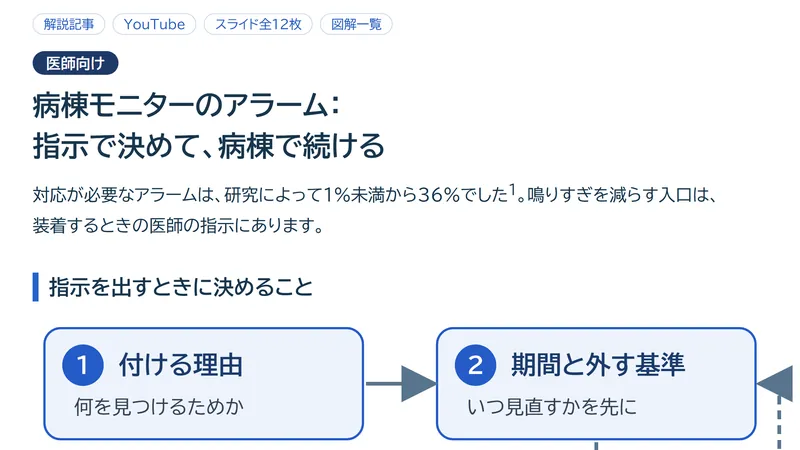
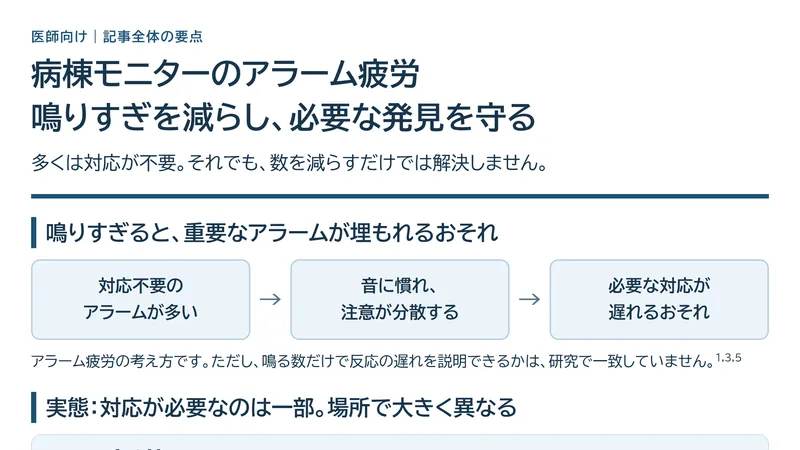
アラーム疲労の図解を記事全体の概要へ更新

Changed region(s): [[0.0312, 0.0311, 1.0, 1.0], [0.4062, 0.0311, 0.5, 0.0933], [0.625, 0.6533, 0.6875, 0.6844]]

diff --git a/infographics/ward-alarm-fatigue/index.html b/infographics/ward-alarm-fatigue/index.html
@@ -1,64 +1,12 @@
-<!DOCTYPE html>
-<html lang="ja"><head><meta charset="utf-8"><meta name="viewport" content="width=device-width,initial-scale=1"><title>病棟モニターのアラーム：指示で決めて、病棟で続ける｜医知創造ラボ</title>
-<meta name="description" content="病棟モニターのアラームを減らすために、医師が装着の指示で決めることと、対策をやめるとアラームが戻ることを1枚の図にまとめました。">
-<style>body{margin:0;background:#edf2f6;color:#18354c;font-family:"BIZ UDPGothic","Yu Gothic",sans-serif}.fig{max-width:1080px;width:100%;margin:auto;background:white}nav{display:flex;flex-wrap:wrap;gap:10px;padding:18px 44px 0}nav a{font-size:17px;color:#245bc7;text-decoration:none;border:1px solid #c7d6ec;border-radius:999px;padding:5px 14px}header{padding:22px 44px 12px}.tag{display:inline-block;background:#1f3a68;color:#fff;font-size:20px;font-weight:700;padding:6px 18px;border-radius:999px;margin-bottom:14px}h1{font-size:38px;line-height:1.45;margin:0 0 14px}.intro{font-size:23px;line-height:1.8;margin:0}h2{font-size:28px;margin:30px 44px 6px;padding-left:14px;border-left:8px solid #2563c9;line-height:1.4}svg{width:100%;display:block;height:auto}.caption{font-size:21px;line-height:1.8;margin:6px 44px 0}.note{margin:26px 44px 0;padding:18px 22px;background:#faf4e9;border:2px solid #b08a49;border-radius:16px;font-size:22px;line-height:1.8;font-weight:700}footer{padding:16px 44px 32px;margin-top:26px;font-size:16px;line-height:1.8;border-top:1px solid #d8e1e8;color:#475569}footer a{color:#245bc7}footer ol{margin:4px 0 8px;padding-left:22px}</style></head>
-<body><article class="fig">
-<nav aria-label="関連ページ"><a data-ig-nav href="https://blog.ichisouzo-lab.com/entry/2026/10/21/082630">解説記事</a><a data-ig-nav href="https://youtu.be/Qas2OdVQczU">YouTube</a><a data-ig-nav href="https://tools.ichisouzo-lab.com/slides/ward-alarm-fatigue/">スライド全12枚</a><a data-ig-nav href="https://tools.ichisouzo-lab.com/infographics/">図解一覧</a></nav>
-<header><div class="tag">医師向け</div><h1>病棟モニターのアラーム：<br>指示で決めて、病棟で続ける</h1><p class="intro">対応が必要なアラームは、研究によって1%未満から36%でした<sup>1</sup>。鳴りすぎを減らす入口は、<br>装着するときの医師の指示にあります。</p></header>
-
-<h2>指示を出すときに決めること</h2>
-<section aria-label="指示から記録の見直しまでの流れ"><svg viewBox="0 0 1080 610" role="img" aria-labelledby="f1-title f1-desc"><title id="f1-title">モニター装着の指示で決めることと、記録の見直しの循環</title><desc id="f1-desc">付ける理由、期間と外す基準、患者に合った閾値と遅延、対応する人を順に決め、アラームの記録を定期的に見直して指示に戻す循環図</desc>
-<defs><marker id="arw" markerWidth="10" markerHeight="10" refX="8" refY="5" orient="auto"><path d="M0,0 L10,5 L0,10 Z" fill="#58758d"/></marker></defs>
-<rect x="60" y="30" width="430" height="150" rx="22" fill="#edf3fc" stroke="#245bc7" stroke-width="3"/>
-<circle cx="112" cy="80" r="28" fill="#245bc7"/><text x="112" y="91" text-anchor="middle" fill="#fff" font-size="30" font-weight="700">1</text>
-<text x="160" y="92" fill="#1b3a6b" font-size="34" font-weight="700">付ける理由</text><text x="100" y="146" fill="#334155" font-size="26">何を見つけるためか</text>
-<rect x="590" y="30" width="430" height="150" rx="22" fill="#edf3fc" stroke="#245bc7" stroke-width="3"/>
-<circle cx="642" cy="80" r="28" fill="#245bc7"/><text x="642" y="91" text-anchor="middle" fill="#fff" font-size="30" font-weight="700">2</text>
-<text x="690" y="92" fill="#1b3a6b" font-size="34" font-weight="700">期間と外す基準</text><text x="630" y="146" fill="#334155" font-size="26">いつ見直すかを先に</text>
-<rect x="590" y="250" width="430" height="150" rx="22" fill="#e7f5f2" stroke="#087f7a" stroke-width="3"/>
-<circle cx="642" cy="300" r="28" fill="#087f7a"/><text x="642" y="311" text-anchor="middle" fill="#fff" font-size="30" font-weight="700">3</text>
-<text x="690" y="312" fill="#0b5f5b" font-size="34" font-weight="700">閾値と遅延</text><text x="630" y="366" fill="#334155" font-size="26">その患者に合わせる</text>
-<rect x="60" y="250" width="430" height="150" rx="22" fill="#e7f5f2" stroke="#087f7a" stroke-width="3"/>
-<circle cx="112" cy="300" r="28" fill="#087f7a"/><text x="112" y="311" text-anchor="middle" fill="#fff" font-size="30" font-weight="700">4</text>
-<text x="160" y="312" fill="#0b5f5b" font-size="34" font-weight="700">誰が対応するか</text><text x="100" y="366" fill="#334155" font-size="26">病棟で役割を決める</text>
-<path d="M494 105 H582" fill="none" stroke="#58758d" stroke-width="5" marker-end="url(#arw)"/>
-<path d="M805 184 V242" fill="none" stroke="#58758d" stroke-width="5" marker-end="url(#arw)"/>
-<path d="M586 325 H498" fill="none" stroke="#58758d" stroke-width="5" marker-end="url(#arw)"/>
-<path d="M275 404 V462" fill="none" stroke="#58758d" stroke-width="5" marker-end="url(#arw)"/>
-<rect x="60" y="470" width="960" height="110" rx="22" fill="#1f3a68"/>
-<text x="540" y="520" text-anchor="middle" fill="#fff" font-size="34" font-weight="700">アラームの記録を定期的に見直す</text>
-<text x="540" y="560" text-anchor="middle" fill="#dbe6f7" font-size="24">看護師・臨床工学技士と、病棟の決まりとして</text>
-<path d="M1024 525 H1052 V105 H1030" fill="none" stroke="#58758d" stroke-width="5" stroke-dasharray="12 8" marker-end="url(#arw)"/>
-</svg></section>
-<p class="caption">AHAの声明は、心電図モニターの適応と期間を患者集団ごとに勧告しています<sup>3</sup>。指示に理由と期間を書くのは、それを病棟で使うための提案です。救急外来の職員は、装着の基準があいまいなことと、誰が対応するかがはっきりしないことを挙げました<sup>4</sup>。</p>
-
-<h2>対策をやめると、アラームは戻る</h2>
-<section aria-label="期間ごとの患者1人1日あたりアラーム数"><svg viewBox="0 0 1080 560" role="img" aria-labelledby="f2-title f2-desc"><title id="f2-title">国内の小児専門病院9病棟での、時期ごとの患者1人1日あたりアラーム数</title><desc id="f2-desc">対策前は約143回、最初の対策で約99回、中断期間に約124回、次の対策で約86回、ふたたび中断した期間に約165回へ戻った棒グラフ</desc>
-<text x="110" y="44" fill="#64748b" font-size="22">患者1人1日あたりのアラーム数（約・回）</text>
-<g stroke="#e2e8f0" stroke-width="2"><line x1="110" y1="137" x2="1030" y2="137"/><line x1="110" y1="231" x2="1030" y2="231"/><line x1="110" y1="326" x2="1030" y2="326"/></g>
-<line x1="110" y1="420" x2="1030" y2="420" stroke="#94a3b8" stroke-width="3"/>
-<g fill="#64748b" font-size="22" text-anchor="end"><text x="98" y="145">150</text><text x="98" y="239">100</text><text x="98" y="334">50</text><text x="98" y="428">0</text></g>
-<rect x="147" y="150" width="110" height="270" rx="6" fill="#94a3b8"/>
-<rect x="331" y="233" width="110" height="187" rx="6" fill="#087f7a"/>
-<rect x="515" y="186" width="110" height="234" rx="6" fill="#c2410c"/>
-<rect x="699" y="258" width="110" height="162" rx="6" fill="#087f7a"/>
-<rect x="883" y="108" width="110" height="312" rx="6" fill="#c2410c"/>
-<g font-size="32" font-weight="700" text-anchor="middle"><text x="202" y="138" fill="#475569">143</text><text x="386" y="221" fill="#0b5f5b">99</text><text x="570" y="174" fill="#9a3412">124</text><text x="754" y="246" fill="#0b5f5b">86</text><text x="938" y="96" fill="#9a3412">165</text></g>
-<g font-size="25" font-weight="700" text-anchor="middle"><text x="202" y="458" fill="#475569">対策前</text><text x="386" y="458" fill="#0b5f5b">対策</text><text x="570" y="458" fill="#9a3412">中断</text><text x="754" y="458" fill="#0b5f5b">対策を再開</text><text x="938" y="458" fill="#9a3412">再び中断</text></g>
-<g font-size="19" text-anchor="middle" fill="#64748b"><text x="386" y="488">記録の確認・電極交換など</text><text x="754" y="488">患者ごとの閾値を追加</text><text x="938" y="488">観察期間で最多</text></g>
-<path d="M441 300 Q478 250 512 232" fill="none" stroke="#c2410c" stroke-width="4" marker-end="url(#arw2)"/>
-<path d="M809 320 Q850 220 880 160" fill="none" stroke="#c2410c" stroke-width="4" marker-end="url(#arw2)"/>
-<defs><marker id="arw2" markerWidth="10" markerHeight="10" refX="8" refY="5" orient="auto"><path d="M0,0 L10,5 L0,10 Z" fill="#c2410c"/></marker></defs>
-<text x="540" y="540" text-anchor="middle" fill="#334155" font-size="21">2016〜2024年・65,720人（文献2）。小児の単施設で、成人病棟への当てはめは未検証</text>
-</svg></section>
-<p class="caption">著者は、対策を長続きさせるには病棟の仕組みに組み込む必要があると結論しています<sup>2</sup>。一度きりの運動で終わらせず、記録の見直しを続けます。</p>
-
-<p class="note">減らすときは、急変の見逃しが増えていないかを一緒に確かめます。閾値を広げる方法と遅延は、安全面の結果が研究で一致していません<sup>1</sup>。</p>
-
-<footer><p>この図は、下記の文献をもとに医知創造ラボが作成した自作模式図です。個々の患者の判断は、病棟の決まりと主治医の判断によります。</p>
-<ol><li>Paine CW, et al. J Hosp Med. 2016;11(2):136-44. <a href="https://pubmed.ncbi.nlm.nih.gov/26663904/">PMID 26663904</a></li>
-<li>Akahoshi S, et al. J Hosp Med. 2026;21(1):34-41. <a href="https://pubmed.ncbi.nlm.nih.gov/40677163/">PMID 40677163</a></li>
-<li>Sandau KE, et al. Circulation. 2017;136(19):e273-e344. <a href="https://pubmed.ncbi.nlm.nih.gov/28974521/">PMID 28974521</a></li>
-<li>Johansson S, et al. J Am Coll Emerg Physicians Open. 2025;6(2):100077. <a href="https://pubmed.ncbi.nlm.nih.gov/40110529/">PMID 40110529</a></li></ol>
-<p>確認日：2026-10-21　監修：今村久司（脳神経内科医）／医知創造ラボ</p></footer>
-</article></body></html>
+<!DOCTYPE html><html lang="ja"><head><meta charset="utf-8"><meta name="viewport" content="width=device-width,initial-scale=1"><title>病棟モニターのアラーム疲労：記事全体の図解</title>
+<style>*{box-sizing:border-box}body{margin:0;background:#fff;color:#18354c;font-family:"BIZ UDPGothic","Yu Gothic",sans-serif}.fig{max-width:1080px;width:100%;margin:auto;padding:40px 42px 30px}header{border-bottom:6px solid #1A5276;padding-bottom:22px}.tag{font-size:18px;font-weight:700;color:#1A5276;letter-spacing:.08em}h1{font-size:42px;line-height:1.4;margin:12px 0}header p{font-size:25px;line-height:1.6;margin:0}section{margin-top:25px}h2{font-size:29px;line-height:1.45;margin:0 0 15px;border-left:7px solid #1A5276;padding-left:13px}p{font-size:23px;line-height:1.65;margin:8px 0}.grid{display:grid;grid-template-columns:1fr 1fr;gap:18px}.box{padding:18px 22px;border-radius:14px;background:#eef5fb;border:1px solid #c9dce9}.box h3{font-size:25px;margin:0 0 8px}.small{font-size:20px;line-height:1.65}.caution{padding:14px 20px;background:#fff5e5;border-left:5px solid #d29a37;border-radius:6px;font-size:21px;line-height:1.65}.pill{display:inline-block;padding:4px 14px;background:#e3f2ef;border-radius:8px;font-size:22px;font-weight:700}.big{font-size:44px;font-weight:700;color:#1A5276}.flow{display:flex;align-items:stretch;gap:10px;margin:12px 0}.node{flex:1;background:#edf4fa;border:2px solid #b9d0e0;border-radius:12px;padding:16px;text-align:center;font-size:23px;line-height:1.6;font-weight:700}.arrow{align-self:center;font-size:34px;color:#58758d}table{border-collapse:collapse;width:100%;font-size:22px}td,th{padding:12px 16px;border-bottom:1px solid #cddce7;text-align:left;line-height:1.5}th{background:#1A5276;color:#fff}td:first-child{width:31%;font-weight:700}svg{display:block;width:100%;height:auto}.action{background:#1b3a5c;color:#fff;border-radius:14px;padding:19px 23px}.action h3{font-size:26px;margin:0 0 8px}.action p{font-size:23px;margin:0}footer{margin-top:26px;border-top:1px solid #cfdae3;padding-top:15px;color:#52677b;font-size:16px;line-height:1.8}footer a{color:#1A5276}sup{font-size:.65em}b{font-weight:700}@media(max-width:650px){.fig{padding:22px 18px}h1{font-size:29px}h2{font-size:23px}.grid{grid-template-columns:1fr}p,table,.node,.action p{font-size:18px}.small,.caution{font-size:17px}.flow{gap:4px}.node{padding:10px 5px}.arrow{font-size:23px}header p{font-size:20px}}</style></head>
+<body><nav style="max-width:1080px;margin:16px auto;text-align:center;font:16px sans-serif"><a href="https://blog.ichisouzo-lab.com/entry/2026/10/21/082630">解説記事へ</a> ｜ <a href="https://tools.ichisouzo-lab.com/slides/ward-alarm-fatigue/">スライドを見る</a> ｜ <a href="infographic.png" target="_blank" rel="noopener">画像を拡大・保存</a></nav><article class="fig"><header><div class="tag">医師向け｜記事全体の要点</div><h1>病棟モニターのアラーム疲労<br>鳴りすぎを減らし、必要な発見を守る</h1><p>多くは対応が不要。それでも、数を減らすだけでは解決しません。</p></header>
+<section><h2>鳴りすぎると、重要なアラームが埋もれるおそれ</h2><div class="flow"><div class="node">対応不要の<br>アラームが多い</div><span class="arrow">→</span><div class="node">音に慣れ、<br>注意が分散する</div><span class="arrow">→</span><div class="node">必要な対応が<br>遅れるおそれ</div></div><p class="small">アラーム疲労の考え方です。ただし、鳴る数だけで反応の遅れを説明できるかは、研究で一致していません。<sup>1,3,5</sup></p></section>
+<section><h2>実態：対応が必要なのは一部。場所で大きく異なる</h2><div class="box"><span class="big">1%未満〜36%</span><p>対応が必要なアラームの割合（2016年の系統的レビュー）。<sup>1</sup></p></div><table><thead><tr><th>研究の場所</th><th>観察されたアラーム</th></tr></thead><tbody><tr><td>成人ICU<sup>2</sup></td><td>音の鳴るアラームは1床1日187回。<br>判定した不整脈アラームの88.8%が偽陽性。</td></tr><tr><td>小児一般病棟<sup>3</sup></td><td>11,745件中、対応が必要だったのは50件（0.5%）。</td></tr><tr><td>救急外来3施設<sup>4</sup></td><td>都市部・大学病院では平均30秒に1回。<br>地方病院では平均120秒に1回。</td></tr></tbody></table><p class="caution">患者・環境・定義が異なります。成人の一般病棟にそのまま当てはめず、自施設の記録も確認します。</p></section>
+<section><h2>反応の遅れ：アラーム数だけでは説明できない</h2><div class="grid"><div class="box"><h3>2015年の小児観察研究<sup>5</sup></h3><p>直前の対応不要アラームが多いほど、反応が遅かった。</p></div><div class="box"><h3>2017年の小児コホート<sup>3</sup></h3><p>直前の数とは関連せず、勤務の経過時間・<span style="white-space:nowrap">受け持ち人数</span>と関連した。</p></div></div><p class="small">いずれも小児・単施設。成人病棟での因果関係は断定できません。</p></section>
+<section><h2>原因と対策：機械の設定と、病棟の運用を見直す</h2><div class="flow"><div class="node">患者に合わない設定<br>対応不要の事象<sup>2</sup></div><span class="arrow">＋</span><div class="node">あいまいな装着基準<br>担当・業務量の問題<sup>4</sup></div></div><div class="grid"><div class="box"><h3>閾値・遅延・電極の見直し<sup>1</sup></h3><p>効果は期待されますが、未確立です。</p><p class="small">閾値を広げる方法と遅延は、安全面の結果が研究で一致しません。</p></div><div class="box"><h3>小児の施設では減少の報告<sup>7</sup></h3><p>遅延と発報条件の見直しで、アラームが75〜82%減少。</p><p class="small">急変対応は増えませんでした。ただし単施設の前後比較で、成人への適用は未検証です。</p></div></div></section>
+<section><h2>継続：対策をやめると、再び増えた</h2><svg viewBox="0 0 996 310" role="img" aria-label="国内小児病院での患者1人1日あたりのアラーム数。対策前143、対策99、中断124、再開86、再中断165。いずれも約。"><text x="22" y="27" font-size="20" fill="#52677b">患者1人1日あたりのアラーム数（約・回）</text><line x1="32" y1="246" x2="964" y2="246" stroke="#8ba1b3" stroke-width="2"/>
+<rect x="76" y="95.85" width="116" height="150.15" rx="5" fill="#8fa1b7"/><text x="134" y="83.85" text-anchor="middle" font-size="29" font-weight="700" fill="#8fa1b7">143</text><text x="134" y="285" text-anchor="middle" font-size="24" fill="#18354c">対策前</text><rect x="258" y="142.05" width="116" height="103.95" rx="5" fill="#16837f"/><text x="316" y="130.05" text-anchor="middle" font-size="29" font-weight="700" fill="#16837f">99</text><text x="316" y="285" text-anchor="middle" font-size="24" fill="#18354c">対策</text><rect x="440" y="115.79999999999998" width="116" height="130.20000000000002" rx="5" fill="#c36530"/><text x="498" y="103.79999999999998" text-anchor="middle" font-size="29" font-weight="700" fill="#c36530">124</text><text x="498" y="285" text-anchor="middle" font-size="24" fill="#18354c">中断</text><rect x="622" y="155.7" width="116" height="90.3" rx="5" fill="#16837f"/><text x="680" y="143.7" text-anchor="middle" font-size="29" font-weight="700" fill="#16837f">86</text><text x="680" y="285" text-anchor="middle" font-size="24" fill="#18354c">再開</text><rect x="804" y="72.75" width="116" height="173.25" rx="5" fill="#c36530"/><text x="862" y="60.75" text-anchor="middle" font-size="29" font-weight="700" fill="#c36530">165</text><text x="862" y="285" text-anchor="middle" font-size="24" fill="#18354c">再中断</text></svg><p class="small">国内の小児専門病院9病棟の研究。対策の中断時に再増加しました。成人病棟での効果は未検証です。<sup>8</sup></p><p class="pill">一度きりの対策で終えず、記録の確認と見直しを続ける</p></section>
+<section><h2>脳卒中病棟：心房細動を見つける目的を守る</h2><div class="grid"><div class="box"><h3>誤報も、真のアラームもある<sup>9</sup></h3><p>心房細動アラームの約4割が誤報。一方、109人中4人で、正しいアラームがあっても心房細動が見逃されていました。</p></div><div class="box"><h3>記録を医師が確認する</h3><p>心房細動を探しているなら、数を減らす際にも、必要な記録確認を省かない流れを共有します。</p><p class="small">対応手順は筆者の提案です。</p></div></div><p class="small">ドイツの脳卒中ユニット2施設の後ろ向き研究。見逃しの原因や、アラーム削減介入の効果は評価していません。<sup>9</sup></p></section>
+<section><div class="action"><h3>医師の指示を、病棟で続けられる仕組みへ</h3><p>付ける理由 → 期間・外す基準 → 患者に合った設定 → 対応する人<br>看護師・臨床工学技士と共有し、記録を定期的に見直します。</p></div><p class="small">AHA声明は心電図モニターの適応と期間を病態ごとに勧告しています。<sup>6</sup> 指示への記載や上の運用は筆者の提案。設定は個々の患者と病棟の判断で見直します。</p></section>
+<footer>出典（番号は記事の参考文献と共通）：<br>1. <a href="https://pubmed.ncbi.nlm.nih.gov/26663904/">Paine 2016（PMID 26663904）</a> ／ 2. <a href="https://pubmed.ncbi.nlm.nih.gov/25338067/">Drew 2014（PMID 25338067）</a> ／ 3. <a href="https://pubmed.ncbi.nlm.nih.gov/28394995/">Bonafide 2017（PMID 28394995）</a> ／ 4. <a href="https://pubmed.ncbi.nlm.nih.gov/40110529/">Johansson 2025（PMID 40110529）</a> ／ 5. <a href="https://pubmed.ncbi.nlm.nih.gov/25873486/">Bonafide 2015（PMID 25873486）</a> ／ 6. <a href="https://pubmed.ncbi.nlm.nih.gov/28974521/">Sandau 2017（PMID 28974521）</a> ／ 7. <a href="https://pubmed.ncbi.nlm.nih.gov/39216620/">Yang 2025（PMID 39216620）</a> ／ 8. <a href="https://pubmed.ncbi.nlm.nih.gov/40677163/">Akahoshi 2026（PMID 40677163）</a> ／ 9. <a href="https://pubmed.ncbi.nlm.nih.gov/37534004/">Andina 2023（PMID 37534004）</a><br>確認日：2026-10-21　監修：今村久司（脳神経内科医）／医知創造ラボ<br>本図は研究と記事の要点を示す自作図です。個別患者への一律の設定変更を勧めるものではありません。</footer></article></body></html>

diff --git a/infographics/index.html b/infographics/index.html
@@ -74,11 +74,11 @@
   </div>
   <p class="count">165 件の図解</p>
   <div class="grid" id="grid">
-  <article class="card" data-search="病棟モニターのアラーム：指示で決めて、病棟で続ける 対応が必要なアラームは研究によって1%未満から36%。装着の指示で決めること（理由・期間と外す基準・閾値と遅延・対応する人）と、対策をやめるとアラームが戻ることを1枚に（医師向け） 医師向け">
-    <a class="thumb" href="ward-alarm-fatigue/" aria-label="病棟モニターのアラーム：指示で決めて、病棟で続ける"><img src="ward-alarm-fatigue/card.webp" alt="病棟モニターのアラーム：指示で決めて、病棟で続ける サムネイル" loading="lazy"></a>
+  <article class="card" data-search="病棟モニターのアラーム疲労：鳴りすぎを減らし、必要な発見を守る アラームの実態、反応遅延に関する研究の違い、対策の根拠と限界、継続の必要性、心房細動の見逃しへの注意、医師の指示まで、記事全体を1枚にまとめました。 医師向け">
+    <a class="thumb" href="ward-alarm-fatigue/" aria-label="病棟モニターのアラーム疲労：鳴りすぎを減らし、必要な発見を守る"><img src="ward-alarm-fatigue/card.webp" alt="病棟モニターのアラーム疲労：鳴りすぎを減らし、必要な発見を守る サムネイル" loading="lazy"></a>
     <div class="body">
-      <h2 class="title"><a href="ward-alarm-fatigue/">病棟モニターのアラーム：指示で決めて、病棟で続ける</a></h2>
-      <p class="desc">対応が必要なアラームは研究によって1%未満から36%。装着の指示で決めること（理由・期間と外す基準・閾値と遅延・対応する人）と、対策をやめるとアラームが戻ることを1枚に（医師向け）</p>
+      <h2 class="title"><a href="ward-alarm-fatigue/">病棟モニターのアラーム疲労：鳴りすぎを減らし、必要な発見を守る</a></h2>
+      <p class="desc">アラームの実態、反応遅延に関する研究の違い、対策の根拠と限界、継続の必要性、心房細動の見逃しへの注意、医師の指示まで、記事全体を1枚にまとめました。</p>
       <div class="meta"><span class="tag aud-gen">医師向け</span><span class="date">2026-10-21</span></div>
       <div class="links"><a class="lnk lnk--main" href="ward-alarm-fatigue/">📊 図を開く</a><a class="lnk" href="ward-alarm-fatigue/infographic.png" target="_blank" rel="noopener">🖼 画像</a><a class="lnk lnk--yt" href="https://youtu.be/Qas2OdVQczU" target="_blank" rel="noopener">▶ 動画</a><a class="lnk" href="https://blog.ichisouzo-lab.com/entry/2026/10/21/082630" target="_blank" rel="noopener">解説記事</a></div>
     </div>

diff --git a/sw.js b/sw.js
@@ -1,4 +1,4 @@
-const CACHE_NAME = 'ddx-tools-v246';
+const CACHE_NAME = 'ddx-tools-v247';
 const ASSETS = [
   './hyperammonemia.html',
   './infographics/ward-alarm-fatigue/index.html',
